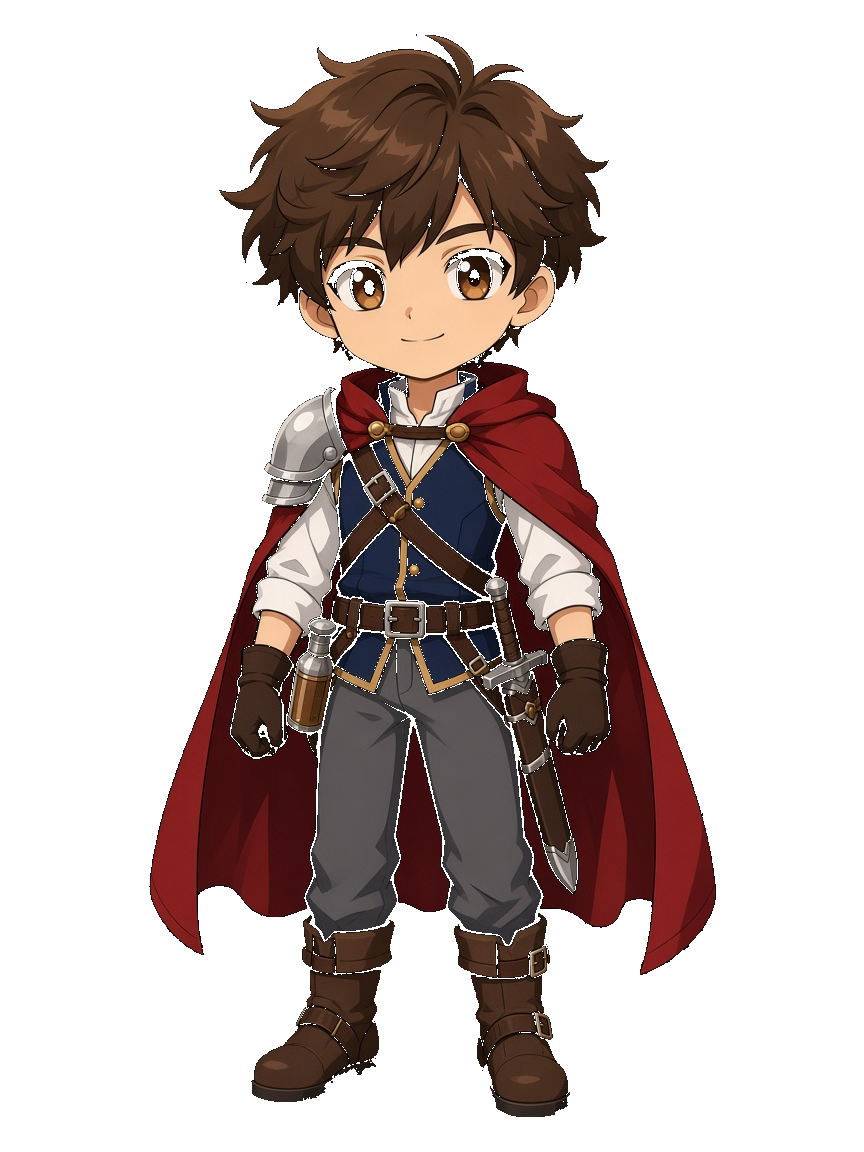
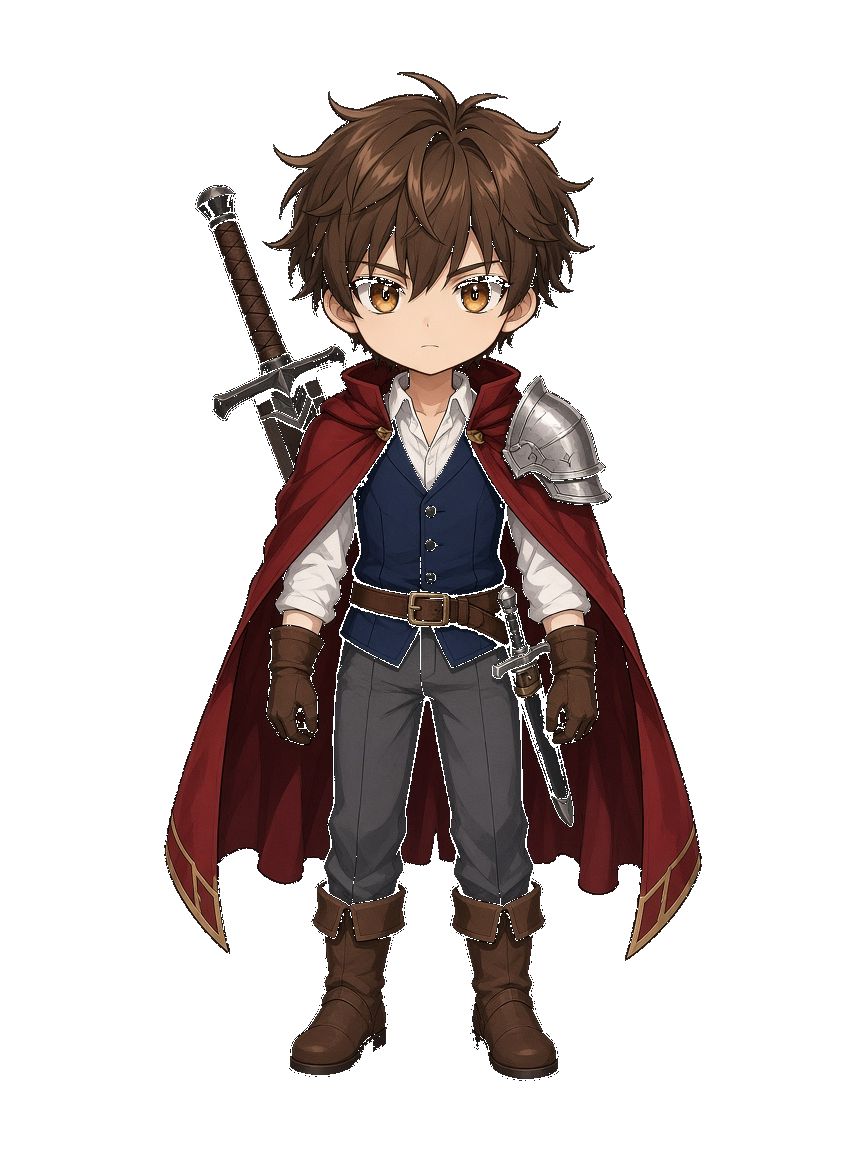
Give the warrior six distinct views, one belt, and two swords.

Changed region(s): [[0.1562, 0.0312, 0.8438, 0.9688]]

diff --git a/index.html b/index.html
@@ -2862,11 +2862,11 @@
         <div class="cast-screen">
           <button type="button" class="cast-back" data-action="title">もどる</button>
           <div class="cast-row">
-            <button type="button" class="cast-mini" data-action="cast-stay" aria-label="${CHARACTER_NAME}"><span class="cast-front"><img class="cast-portrait" src="job-warrior.png?v=2" alt=""></span></button>
+            <button type="button" class="cast-mini" data-action="cast-stay" aria-label="${CHARACTER_NAME}"><span class="cast-front"><img class="cast-portrait" src="job-warrior.png?v=3" alt=""></span></button>
           </div>
           <div class="cast-body">
             <button type="button" class="cast-arrow" data-action="cast-stay" aria-label="前のキャラ">◀</button>
-            <div class="cast-front big"><img class="cast-portrait" src="job-warrior.png?v=2" alt="戦士"></div>
+            <div class="cast-front big"><img class="cast-portrait" src="job-warrior.png?v=3" alt="戦士"></div>
             <div class="cast-info">
               <p>初期ジョブ</p>
               <h1>${CHARACTER_NAME}</h1>
@@ -2910,10 +2910,7 @@
             <h2>設定資料</h2>
             <p class="album-meta">絵はここを正とする。ジョブが変わっても、性別は変えない。</p>
             <h3>戦士</h3>
-            <img class="sheet-art" src="warrior-f-sheet.jpg?v=3" alt="戦士。真正面、右向き、左向き、斜め後ろ、後ろ、手を腰。">
-            <p class="sheet-cap">左から、真正面、右向き、左向き、斜め後ろ、後ろ、決めポーズ。</p>
-            <h3>戦士・同じ絵</h3>
-            <img class="sheet-art" src="warrior-m-sheet.jpg?v=3" alt="戦士。真正面、右向き、左向き、斜め後ろ、後ろ、手を腰。">
+            <img class="sheet-art" src="warrior-f-sheet.jpg?v=4" alt="戦士。真正面、右向き、左向き、斜め後ろ、後ろ、手を腰。">
             <p class="sheet-cap">左から、真正面、右向き、左向き、斜め後ろ、後ろ、決めポーズ。</p>
             <h3>魔法使い・女・白</h3>
             <img class="sheet-art" src="mage-f-sheet.jpg?v=2" alt="女の魔法使い。真正面、右向き、左向き、斜め後ろ、後ろ、決めポーズ。">
@@ -2922,8 +2919,8 @@
             <img class="sheet-art" src="mage-m-sheet.jpg?v=2" alt="男の魔法使い。真正面、右向き、左向き、斜め後ろ、後ろ、決めポーズ。">
             <p class="sheet-cap">左から、真正面、右向き、左向き、斜め後ろ、後ろ、決めポーズ。</p>
             <div class="sheet-locks">
-              <p><b>体</b>戦士は、アニメのソーシャルゲーム風の青年。魔法使いは、いまの2頭身のまま。</p>
-              <p><b>戦士</b>赤いマント、白いシャツ、紺の胴着、革の胸ベルト、左肩の銀の肩当て、腰の小瓶、左腰の剣。盾とリュックは無い。</p>
+              <p><b>体</b>戦士は、4頭身くらい。魔法使いは、いまの2頭身のまま。</p>
+              <p><b>戦士</b>赤いマント、白いシャツ、紺の胴着、ベルトは一本、左肩の銀の肩当て。大きな剣は背中、小さな剣は腰。盾とリュックは無い。</p>
               <p><b>魔法使い</b>女は白、男は黒。杖は同じで、先が一つの渦巻き。戦士の服は使わない。</p>
               <p><b>戦闘</b>自分は、この戦士の斜め後ろ。赤いマント。敵はその奥。</p>
             </div>
@@ -3100,7 +3097,7 @@
           const img = new Image();
           img.onload = () => { heroImage = img; resolve(img); };
           img.onerror = () => reject(new Error("hero"));
-          img.src = "hero-shoulder.png?v=9";
+          img.src = "hero-shoulder.png?v=10";
         });
       }
       return heroImageTask;
@@ -3119,7 +3116,7 @@
     }
 
     function heroShoulder() {
-      return `<div class="hero-shoulder"><img class="hero-fig" src="hero-shoulder.png?v=9" alt="戦士"></div>`;
+      return `<div class="hero-shoulder"><img class="hero-fig" src="hero-shoulder.png?v=10" alt="戦士"></div>`;
     }
 
     function startHeroIdle() {
